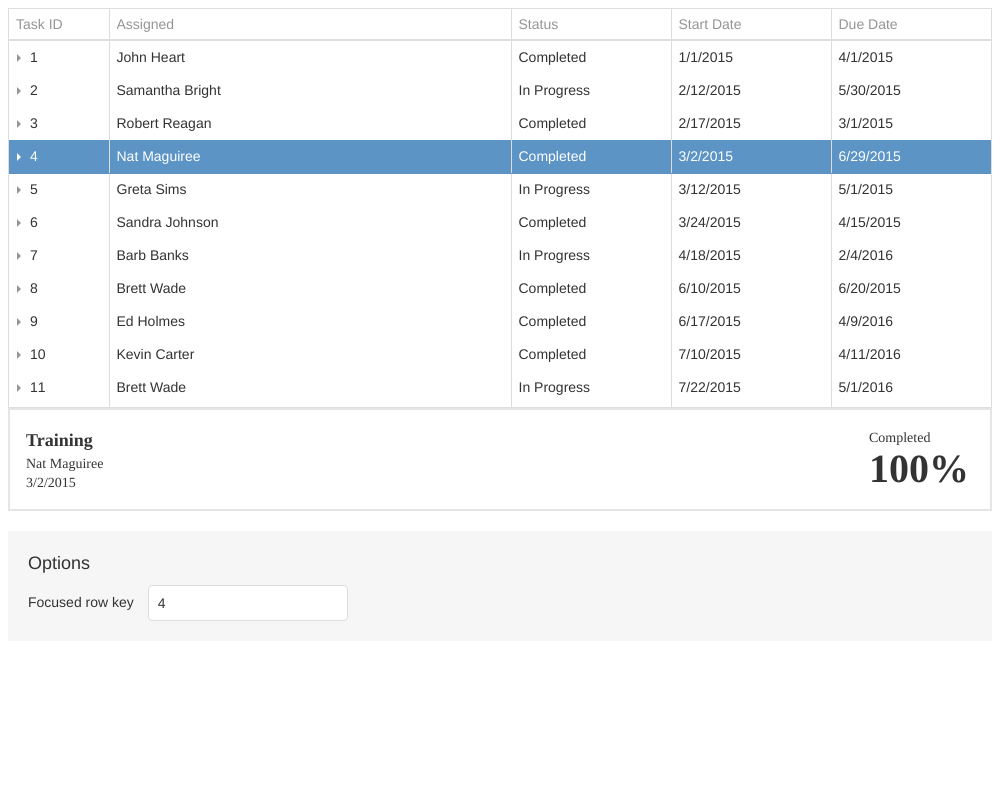
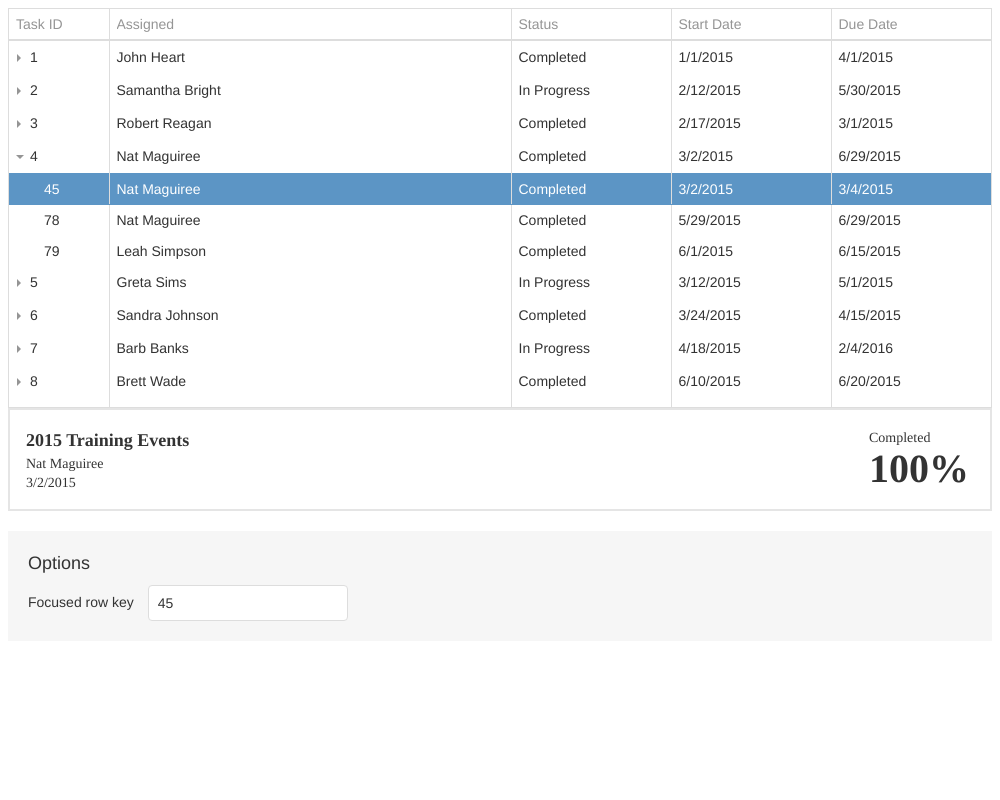
TreeList - Focused Row: Change focusedRowKey (#2608)

Changed region(s): [[0.0, 0.1562, 0.992, 0.5], [0.031, 0.5312, 0.186, 0.5625], [0.031, 0.4688, 0.062, 0.5]]

diff --git a/JSDemos/Demos/TreeList/FocusedRow/Angular/app/app.component.ts b/JSDemos/Demos/TreeList/FocusedRow/Angular/app/app.component.ts
@@ -38,7 +38,7 @@ export class AppComponent {
   focusedRowKey: number;
 
   constructor() {
-    this.focusedRowKey = 4;
+    this.focusedRowKey = 45;
     this.dataSource = AspNetData.createStore({
       key: 'Task_ID',
       loadUrl: `${url}/Tasks`,

diff --git a/JSDemos/Demos/TreeList/FocusedRow/React/App.js b/JSDemos/Demos/TreeList/FocusedRow/React/App.js
@@ -30,7 +30,7 @@ class App extends React.Component {
       startDate: '',
       taskStatus: '',
       taskProgress: '',
-      focusedRowKey: 4,
+      focusedRowKey: 45,
     };
 
     this.onFocusedRowChanged = this.onFocusedRowChanged.bind(this);

diff --git a/JSDemos/Demos/TreeList/FocusedRow/jQuery/index.js b/JSDemos/Demos/TreeList/FocusedRow/jQuery/index.js
@@ -23,7 +23,7 @@ $(() => {
     parentIdExpr: 'Task_Parent_ID',
     hasItemsExpr: 'Has_Items',
     focusedRowEnabled: true,
-    focusedRowKey: 4,
+    focusedRowKey: 45,
     showBorders: true,
     wordWrapEnabled: true,
     columns: [

diff --git a/JSDemos/Demos/TreeList/FocusedRow/Vue/App.vue b/JSDemos/Demos/TreeList/FocusedRow/Vue/App.vue
@@ -108,7 +108,7 @@ export default {
         loadMode: 'raw',
         loadUrl: `${url}/TaskEmployees`,
       }),
-      focusedRowKey: 4,
+      focusedRowKey: 45,
     };
   },
   methods: {

diff --git a/JSDemos/Demos/TreeList/FocusedRow/description.md b/JSDemos/Demos/TreeList/FocusedRow/description.md
@@ -4,4 +4,4 @@ To focus a row programmatically, specify the [focusedRowKey](/Documentation/ApiR
 
 You can use the [onFocusedRowChanging](/Documentation/ApiReference/UI_Components/dxTreeList/Configuration/#onFocusedRowChanging) and [onFocusedRowChanged](/Documentation/ApiReference/UI_Components/dxTreeList/Configuration/#onFocusedRowChanged) properties to specify a custom function that is executed before or after a row is focused.
 
-In this demo, the row with the `4` key is focused initially. You can specify the `focusedRowKey` property via the input field below the TreeList. The **onFocusedRowChanged** function is used to display additional information below the component when the focused row changes.
+In this demo, the row with the `45` key is focused initially. You can specify the `focusedRowKey` property via the input field below the TreeList. The **onFocusedRowChanged** function is used to display additional information below the component when the focused row changes.
